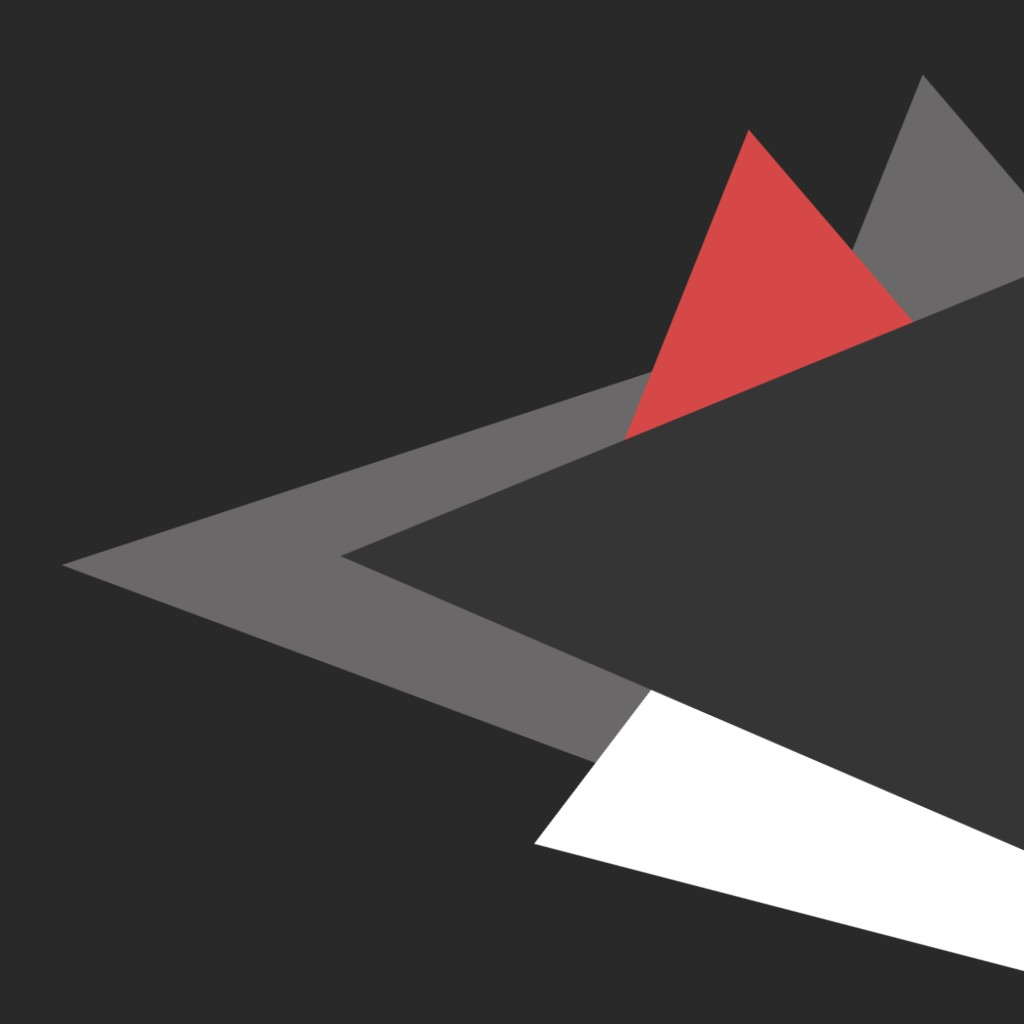
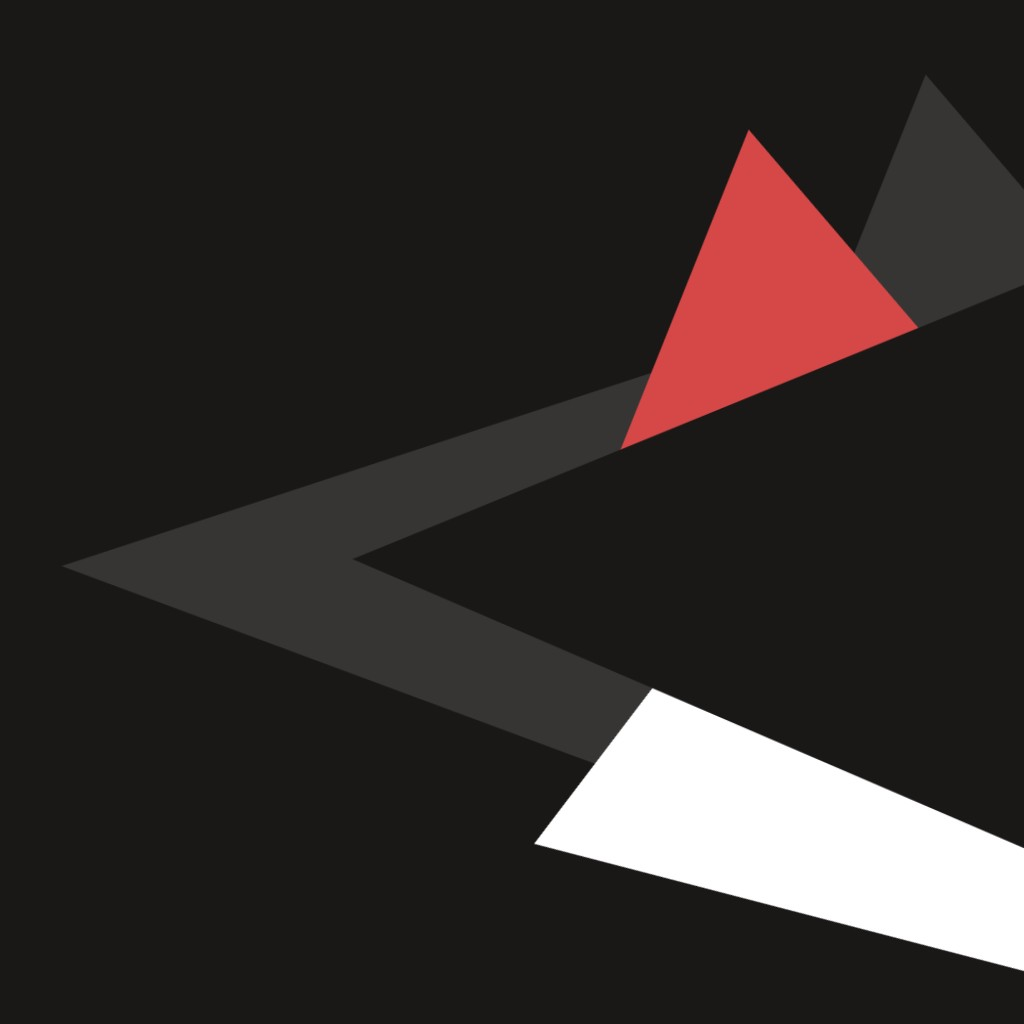
added animate on scroll

Changed region(s): [[0.0625, 0.0625, 1.0, 0.8438]]

diff --git a/portfolio/src/components/Projects.vue b/portfolio/src/components/Projects.vue
@@ -1,10 +1,10 @@
 <template>
   <section id="projects" class="projects-section">
-      <h4 class="projects-subtitle">PORTFOLIO</h4>
-      <h3 class="projects-title">Personal Projects</h3>
+      <h4 class="projects-subtitle" data-aos="fade-in" data-aos-duration="500">PORTFOLIO</h4>
+      <h3 class="projects-title" data-aos="fade-int" data-aos-duration="1000">Personal Projects</h3>
 
       <div class="collection">
-            <a class="collection-item">
+            <a class="collection-item" data-aos="slide-up" data-aos-duration="500">
                 <div class="collection-content">
                     <h4 class="collection-title">GG.15</h4>
                     <h5 class="collection-subtitle">Displays league of legends account information</h5>
@@ -12,7 +12,7 @@
                 <img src="../assets/gg15.png" alt="" class="collection-image">   
             </a>
 
-            <a class="collection-item">
+            <a class="collection-item" data-aos="slide-up" data-aos-duration="1000">
                 <div class="collection-content">
                     <h4 class="collection-title">Project 2</h4>
                     <h5 class="collection-subtitle">Description of Project 2</h5>
@@ -20,7 +20,7 @@
                 <img src="../assets/portfolio-pic-2.jpg" alt="" class="collection-image">
             </a>
 
-            <a class="collection-item">
+            <a class="collection-item" data-aos="slide-up" data-aos-duration="1500">
                 <div class="collection-content">
                     <h4 class="collection-title">Project 3</h4>
                     <h5 class="collection-subtitle">Description of Project 3</h5>
@@ -28,7 +28,7 @@
                 <img src="../assets/portfolio-pic-3.jpg" alt="" class="collection-image">
             </a>
 
-            <a class="collection-item">
+            <a class="collection-item" data-aos="slide-up" data-aos-duration="500">
                 <div class="collection-content">
                     <h4 class="collection-title">Project 4</h4>
                     <h5 class="collection-subtitle">Description of Project 4</h5>
@@ -36,7 +36,7 @@
                 <img src="../assets/portfolio-pic-4.jpg" alt="" class="collection-image">
             </a>
 
-            <a class="collection-item">
+            <a class="collection-item" data-aos="slide-up" data-aos-duration="1000"> 
                 <div class="collection-content">
                     <h4 class="collection-title">Project 5</h4>
                     <h5 class="collection-subtitle">Description of Project 5</h5>
@@ -44,7 +44,7 @@
                 <img src="../assets/portfolio-pic-5.jpg" alt="" class="collection-image">
             </a>
 
-            <a class="collection-item">
+            <a class="collection-item" data-aos="slide-up" data-aos-duration="1500">
                 <div class="collection-content">
                     <h4 class="collection-title">Project 6</h4>
                     <h5 class="collection-subtitle">Description of Project 6</h5>
@@ -52,7 +52,7 @@
                 <img src="../assets/portfolio-pic-6.jpg" alt="" class="collection-image">
             </a>
 
-            <a class="collection-item">
+            <a class="collection-item" data-aos="slide-up" data-aos-duration="500">
                 <div class="collection-content">
                     <h4 class="collection-title">Project 7</h4>
                     <h5 class="collection-subtitle">Description of Project 7</h5>
@@ -60,7 +60,7 @@
                 <img src="../assets/portfolio-pic-7.jpg" alt="" class="collection-image">
             </a>
 
-            <a class="collection-item">
+            <a class="collection-item" data-aos="slide-up" data-aos-duration="1000">
                 <div class="collection-content">
                     <h4 class="collection-title">Project 8</h4>
                     <h5 class="collection-subtitle">Description of Project 8</h5>
@@ -68,7 +68,7 @@
                 <img src="../assets/portfolio-pic-8.jpg" alt="" class="collection-image">
             </a>
 
-            <a class="collection-item">
+            <a class="collection-item" data-aos="slide-up" data-aos-duration="1500">
                 <div class="collection-content">
                     <h4 class="collection-title">Project 9</h4>
                     <h5 class="collection-subtitle">Description of Project 9</h5>

diff --git a/portfolio/src/components/Skills.vue b/portfolio/src/components/Skills.vue
@@ -1,25 +1,25 @@
 <template>
     <section id="skills" class="skills-section">
-        <h3 class="skills-title">Skills</h3>
-        <h4 class="skills-desc">Below are some of my skills and areas of expertise</h4>
+        <h3 class="skills-title" data-aos="zoom-in-right" data-aos-duration="500">Skills</h3>
+        <h4 class="skills-desc" data-aos="fade-in" data-aos-duration="500">Below are some of my skills and areas of expertise</h4>
         <div class="skills-container">
             <div class="arrow-container">
                 <i id="left-arrow" class="fas fa-chevron-down"></i>
             </div>
             <div class="skills-container-row">
-                <div class="skills-container-column">
-                    <img class="skills-image" src="../assets/html icon.png">
+                <div class="skills-container-column" data-aos="flip-up" data-aos-duration="1000">
+                    <img class="skills-image" src="../assets/html icon.png" >
                     <h4 class="skills-container-subtitle">HTML + CSS + JS</h4>
                     <h5 class="skills-container-desc">Lorem ipsum dolor sit amet, consectetur adipiscing elit, sed do eiusmod tempor incididunt ut labore et dolore magna aliqua. Ut enim ad minim veniam</h5>
                 </div>
 
-                <div class="skills-container-column">
+                <div class="skills-container-column" data-aos="flip-up" data-aos-duration="1000">
                     <img class="skills-image" src="../assets/vue icon.png">
                     <h4 class="skills-container-subtitle">Vue JS</h4>
                     <h5 class="skills-container-desc">Lorem ipsum dolor sit amet, consectetur adipiscing elit, sed do eiusmod tempor incididunt ut labore et dolore magna aliqua. Ut enim ad minim veniam</h5>
                 </div>
 
-                <div class="skills-container-column">
+                <div class="skills-container-column" data-aos="flip-up" data-aos-duration="1000">
                     <img class="skills-image" src="../assets/mobile icon.png">
                     <h4 class="skills-container-subtitle">Mobile-friendly</h4>
                     <h5 class="skills-container-desc">Lorem ipsum dolor sit amet, consectetur adipiscing elit, sed do eiusmod tempor incididunt ut labore et dolore magna aliqua. Ut enim ad minim veniam</h5>
@@ -87,7 +87,7 @@ export default {
 }
 
 .skills-container-row {
-    background-color: gray;
+    background-color: var(--light);
     width: 75%;
     display: flex;
     box-shadow: rgba(0, 0, 0, 0.25) 0px 54px 55px, rgba(0, 0, 0, 0.12) 0px -12px 30px, rgba(0, 0, 0, 0.12) 0px 4px 6px, rgba(0, 0, 0, 0.17) 0px 12px 13px, rgba(0, 0, 0, 0.09) 0px -3px 5px;

diff --git a/portfolio/src/App.vue b/portfolio/src/App.vue
@@ -1,8 +1,8 @@
 <template>
   <div id="app">
-    <nav class="nav">
+    <nav class="nav" :class="{nav_transition: scrollPosition > 50}">
       <div class="logo">Evan<span>Yang</span> </div>
-      <ul class="links" ref="close">
+      <ul class="links" ref="close" >
         <li><a href="#about" v-smooth-scroll> About </a></li>
         <li><a href="#skills" v-smooth-scroll> Skills </a></li>
         <li><a href="#projects" v-smooth-scroll> Projects </a></li>
@@ -40,12 +40,21 @@ export default {
     Contacts,
     Footer
   },
-
+  data() {
+    return {
+      scrollPosition: null
+    }
+  },
+  mounted() {
+    window.addEventListener('scroll', this.updateScroll);
+ },
   methods: {
     toggle() { 
       this.$refs.close.classList.toggle("active");
     },
-
+    updateScroll() {
+       this.scrollPosition = window.scrollY
+    },
   }
 }
 </script>
@@ -56,6 +65,12 @@ export default {
 
 #app {
   font-family: 'Montserrat', sans-serif;
+}
+
+.nav_transition {
+    background-color:var(--dark);
+    font-size: 2rem;
+    height: 5rem;
 }
 
 html, body, *{
@@ -105,8 +120,9 @@ nav {
   right: 0;
   top: 0;
   padding: 0 3%;
-  background-color: var(--dark);
-  height: 6rem;
+  background-color: var(--main);
+  height: 8rem;
+  transition: all 0.3s;
 }
 
 nav .logo {
@@ -159,7 +175,7 @@ nav .links a:hover {
 
 nav .links a {
   display: block;
-  font-size: 2rem;
+  font-size: 1.75rem;
   text-decoration: none;
   color: var(--text2)
 }
@@ -173,7 +189,8 @@ nav .links a {
 
 #contact:hover {
   color: white;
-  background-color: var(--main);
+  background-color: var(--nav);
+  border: 0.1rem solid white;
 }
 
 @media screen and (max-width:768px) {
@@ -211,6 +228,14 @@ nav .links a {
 
   nav .links.active {
     bottom: 0rem;
+  }
+  
+  .footer-container {
+    flex-direction: column;
+  }
+
+  .footer-col {
+    max-width: 100%;
   }
 }
 

diff --git a/portfolio/src/components/About.vue b/portfolio/src/components/About.vue
@@ -1,17 +1,17 @@
 <template>
   <section id="about" class="about-section">
-      <div class="about-container-first">
+      <div class="about-container-first" data-aos="slide-right"  data-aos-duration="1000">
             <img src="../assets/pfp.png" class="container-portrait">
       </div>
 
-      <div class="about-container-second">
+      <div class="about-container-second" data-aos="slide-left"  data-aos-duration="1000">
           <div class="second-title-container">
               <h3 class="second-container-name">Evan Yang</h3>
               <h4 class="second-container-subtitle">SITHS 22 Student Web Developer</h4>
           </div>
 
-            <div class="second-desc-container">
-                <h4 class="description">I’m a student at Staten Island Technical Highschool and I have  a passion for web development. I am interested in a career in the tech industry, related to web design or software development.
+            <div class="second-desc-container" >
+                <h4 class="description" >I’m a student at Staten Island Technical Highschool and I have  a passion for computer science. I am interested in a career in the tech industry, related to web design or software development.
                 </h4>
             </div>
 
@@ -46,6 +46,7 @@ export default {
     padding: 5rem 0rem;
     background-color: var(--light);
     display: flex;
+       overflow: hidden;
 }
 
 .about-container-first {
@@ -53,7 +54,7 @@ export default {
     display: flex;
     flex-direction: column;
     align-items: center;
-    margin-top:7rem;
+    padding-top: 7rem;
 }
 
 .about-container-second {

diff --git a/portfolio/src/components/Intro.vue b/portfolio/src/components/Intro.vue
@@ -32,7 +32,8 @@
 <path d="M402.301 47.1445C402.301 38.9089 404.205 32.3659 408.014 27.5156C411.822 22.6328 416.868 20.1914 423.15 20.1914C429.596 20.1914 434.625 22.4701 438.238 27.0273L438.678 21.168H446.93V72.7305C446.93 79.5664 444.895 84.9538 440.826 88.8926C436.79 92.8314 431.354 94.8008 424.518 94.8008C420.709 94.8008 416.982 93.987 413.336 92.3594C409.69 90.7318 406.907 88.502 404.986 85.6699L409.674 80.25C413.548 85.0352 418.284 87.4277 423.883 87.4277C428.277 87.4277 431.695 86.1908 434.137 83.7168C436.611 81.2428 437.848 77.7598 437.848 73.2676V68.7266C434.234 72.8932 429.303 74.9766 423.053 74.9766C416.868 74.9766 411.855 72.4863 408.014 67.5059C404.205 62.5254 402.301 55.7383 402.301 47.1445ZM411.383 48.1699C411.383 54.127 412.604 58.8145 415.045 62.2324C417.486 65.6178 420.904 67.3105 425.299 67.3105C430.995 67.3105 435.178 64.7227 437.848 59.5469V35.4258C435.081 30.3802 430.93 27.8574 425.396 27.8574C421.002 27.8574 417.568 29.5664 415.094 32.9844C412.62 36.4023 411.383 41.4642 411.383 48.1699Z" stroke="#E23C3C" stroke-width="4" mask="url(#path-1-outside-1_2_7)"/>
 </svg>
 
-      </div>
+      </div >
+      
           <h3 class="school">Staten Island Technical Highscool</h3>
           <h4 class="title">Student Web Developer</h4>
       </div>
@@ -92,8 +93,9 @@ export default {
 
 .second-container {
   width: 50%;
-  background-image: url("../assets/designdark.jpg");
+  background-image: url("../assets/design2.jpg");
   background-size: cover;
+  margin-top: 2rem;
 }
 
 .svg-container {

diff --git a/portfolio/src/components/Footer.vue b/portfolio/src/components/Footer.vue
@@ -29,17 +29,16 @@ name: "Footer",
 <style>
 .footer-section {
     background-color: var(--light);
-    height: 12vh;
     width: 100vw;
     display: flex;
-    align-items: center;
 }
 
 .footer-container {
     display: flex;
     justify-content: center;
     width: 100%;
-    height: 10vh;
+    align-items: center;
+    margin: 1rem;
 }
 
 .footer-col {
@@ -47,7 +46,7 @@ name: "Footer",
     justify-content: center;
     align-items: center;
     max-width: 33.33333333%;
-    margin: 3rem;
+    margin: 1rem 3rem;
 }
 
 .fa-twitter-square {

diff --git a/portfolio/src/main.js b/portfolio/src/main.js
@@ -4,8 +4,14 @@ import VueSmoothScroll from "vue2-smooth-scroll";
 Vue.use(VueSmoothScroll);
 Vue.config.productionTip = false;
 
+import AOS from "aos";
+import "aos/dist/aos.css";
+
 new Vue({
   render: function (h) {
     return h(App);
+  },
+  mounted() {
+    AOS.init();
   },
 }).$mount("#app");
